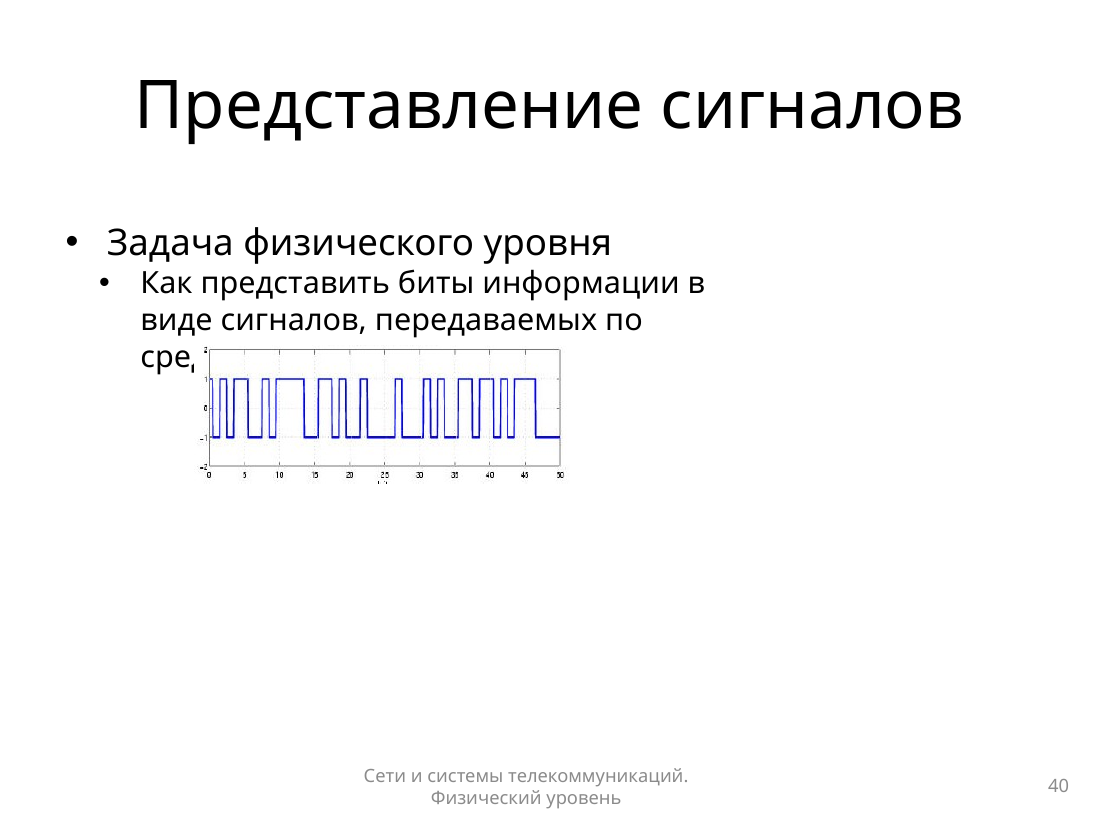
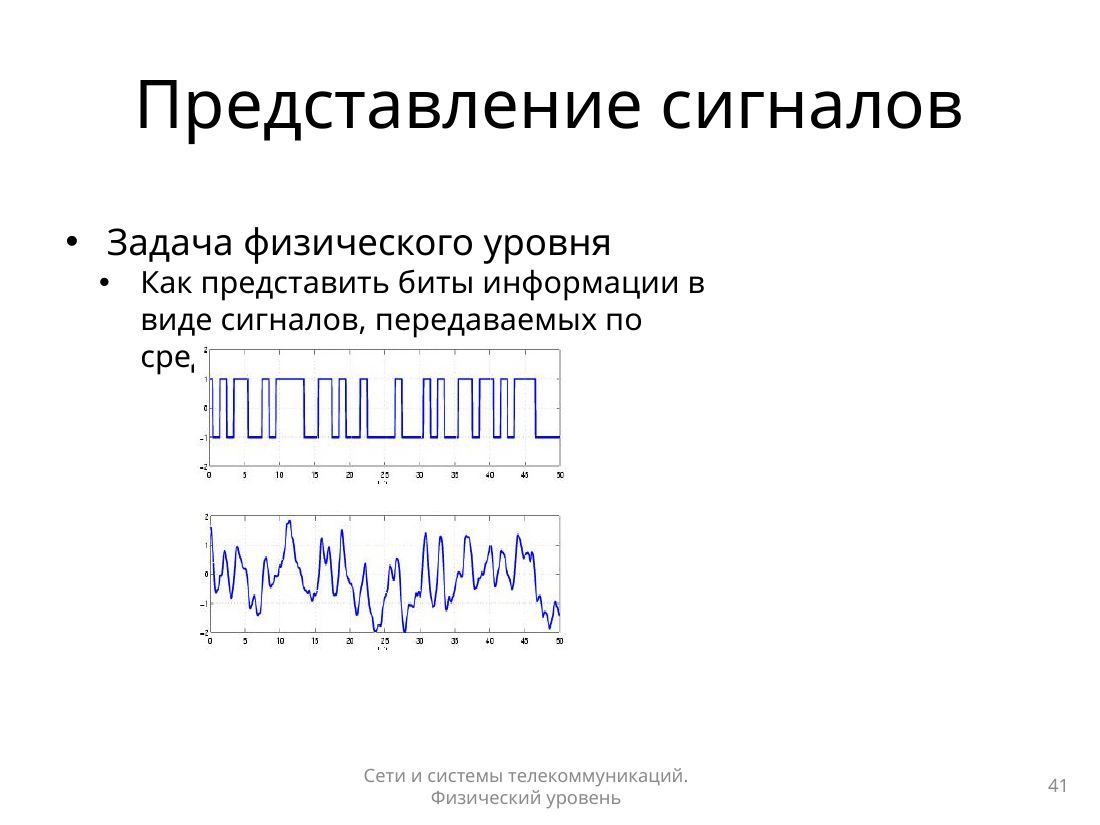
add presentation slides to class notes

Changed region(s): [[0.1855, 0.6364, 0.4945, 0.7879], [0.4945, 0.7273, 0.5255, 0.7576]]

diff --git a/lesson_06/class/Коммутаторы хабы и проверка связи.md b/lesson_06/class/Коммутаторы хабы и проверка связи.md
@@ -4,6 +4,10 @@
 
 Если между двумя коммутаторами стоит хаб, кадр, попавший на хаб, уходит на оба. Для IP-связи без маршрутизатора все компьютеры должны лежать в одной подсети.
 
+![Концентратор на физическом уровне, коммутатор на канальном](images/devices.png)
+
+![Коллизия, если несколько узлов передают сразу](images/collision.png)
+
 ## Как коммутатор пересылает кадр
 
 - **С промежуточным хранением.** Коммутатор дочитывает кадр целиком, проверяет CRC и выбрасывает битый кадр. Этот режим нужен, если кадр ещё и классифицируют, например для QoS.
@@ -24,3 +28,9 @@
 `ping` шлёт эхо-запрос ICMP и ждёт эхо-ответ. Четыре ответа без потерь значат, что адрес достижим, ARP уже решён и кадры ходят в обе стороны. Нулевое время в Packet Tracer обычно значит, что задержку модели не задавали.
 
 В симуляции пакет проводят по шагам. В списке событий видно устройство, время и то, как кадр проходит коммутатор или хаб. Так проверяют, что хаб размножает кадр, а коммутатор после обучения шлёт его в один порт.
+
+![Схема: два коммутатора и хаб между ними](../homework/screenshots/network.png)
+
+![Ping с PC3 на 192.168.1.3](../homework/screenshots/ping.png)
+
+![Кадр в симуляции проходит хаб](../homework/screenshots/simulation.png)

diff --git a/lesson_14/class/Транспортный уровень TCP и UDP.md b/lesson_14/class/Транспортный уровень TCP и UDP.md
@@ -4,6 +4,8 @@
 
 Единица этого уровня — **TPDU**: сегмент TCP или дейтаграмма UDP. IP кладёт её в пакет, канальный уровень — в кадр. Приложения зовут транспорт через интерфейс сокетов.
 
+![Транспортный уровень передаёт данные между процессами](images/transport.png)
+
 ## Порты
 
 Порт — 16-битный номер. IP выбирает узел, порт — программу на нём. Запись `192.168.1.3:80` — конкретная программа на конкретном узле.
@@ -72,6 +74,8 @@ TCP везёт надёжный поток байтов в обе стороны
 ## Окно, поток и перегрузка
 
 Остановка и ожидание шлют один кусок и ждут ответ. Если подтверждение не пришло до тайм-аута, кусок шлют снова. Так медленно.
+
+![Остановка и ожидание рядом со скользящим окном](images/window.png)
 
 **Скользящее окно** разрешает несколько сегментов до подтверждения. Размер окна — в байтах. После ACK окно сдвигается. Кумулятивное `ACK=X` значит: всё, что меньше X, уже принято, следующий ждут байт X. При окне 3000 байт можно отправить два сегмента по 1500. Когда байты 1–3000 на месте, приходит `ACK=3001`. Если кусок потерян, ACK продолжает указывать на дыру. **SACK** отдельно сообщает, какие диапазоны после дыры уже есть.
 

diff --git a/README.md b/README.md
@@ -38,7 +38,7 @@
 
 Занятия лежат в папках `lesson_01`–`lesson_16`. У каждого урока один и тот же набор:
 
-- `class/` — конспект занятия. Схемы со слайдов по этой теме лежат в `class/images`. У уроков 6, 14 и 16 отдельных слайдов не было;
+- `class/` — конспект занятия. Рядом, в `class/images`, лежат слайды презентации по этой теме. У урока 16 отдельной презентации не было: в конспект вставлены захваты из `homework/screenshots`;
 - `homework/README.md` — что сдано по этому уроку: условие, решение и, если конспект собран по этой работе, ссылка на файл в `class/`;
 - `homework/screenshots/` — скриншоты этой сдачи. Если снимков не было, папка держится файлом `.gitkeep`. Сам `.gitkeep` работой не считается.
 

diff --git a/lesson_16/class/Анализ трафика Wireshark.md b/lesson_16/class/Анализ трафика Wireshark.md
@@ -23,3 +23,9 @@
 В заголовке четыре поля, всего 8 байт: порт источника, порт получателя, длина и контрольная сумма. Флагов соединения нет. В поле протокола IP у UDP номер 17. Длина включает свой заголовок, остальное — данные. Внутри может лежать DNS, DHCP или QUIC.
 
 Два кадра TCP с разными флагами и один кадр UDP как раз показывают эту разницу: у TCP есть состояние соединения, у UDP — только порты и длина.
+
+![TCP: флаги PSH и ACK](../homework/screenshots/tcp-psh-ack.png)
+
+![TCP: флаг ACK](../homework/screenshots/tcp-ack.png)
+
+![UDP, дальше в кадре QUIC](../homework/screenshots/udp-quic.png)
